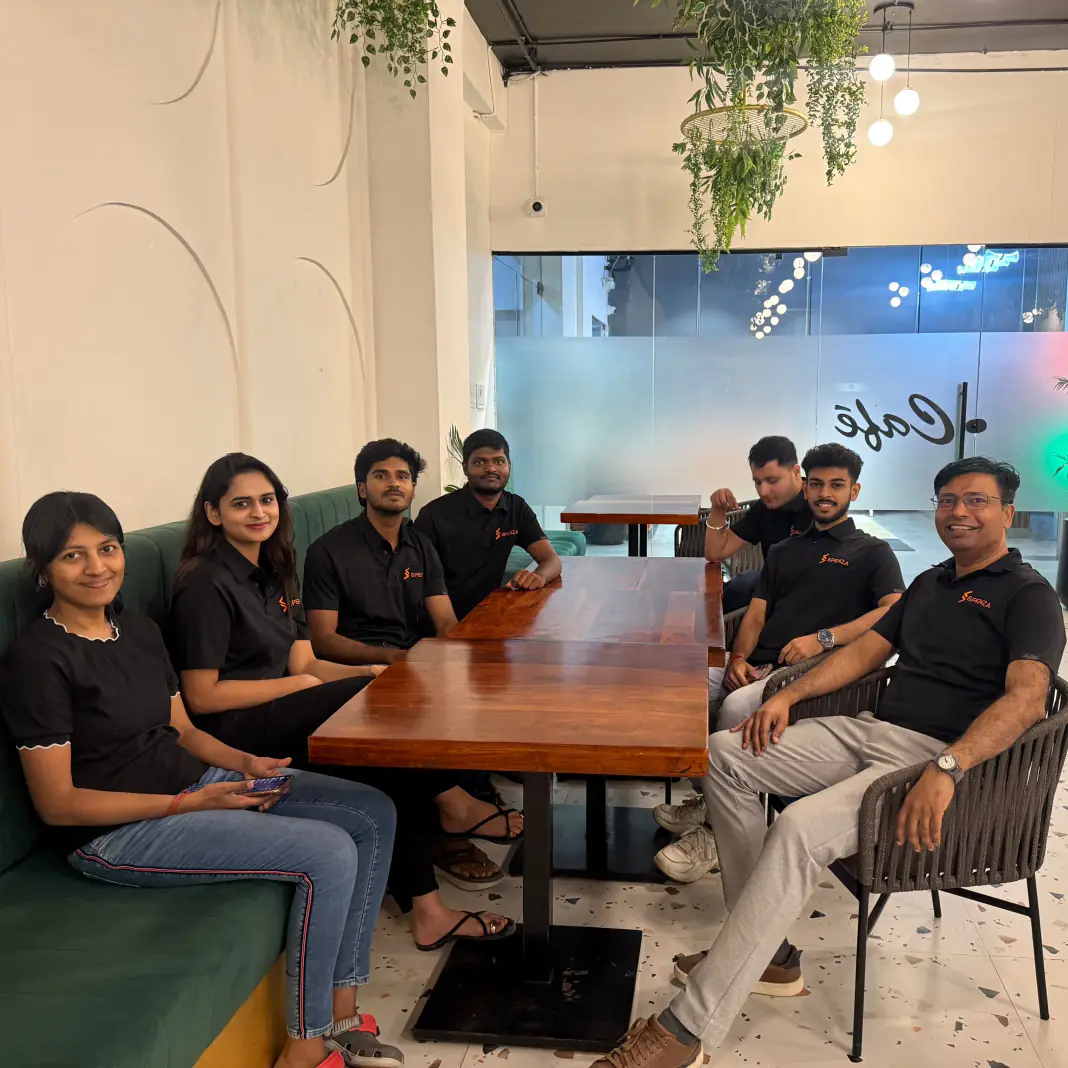
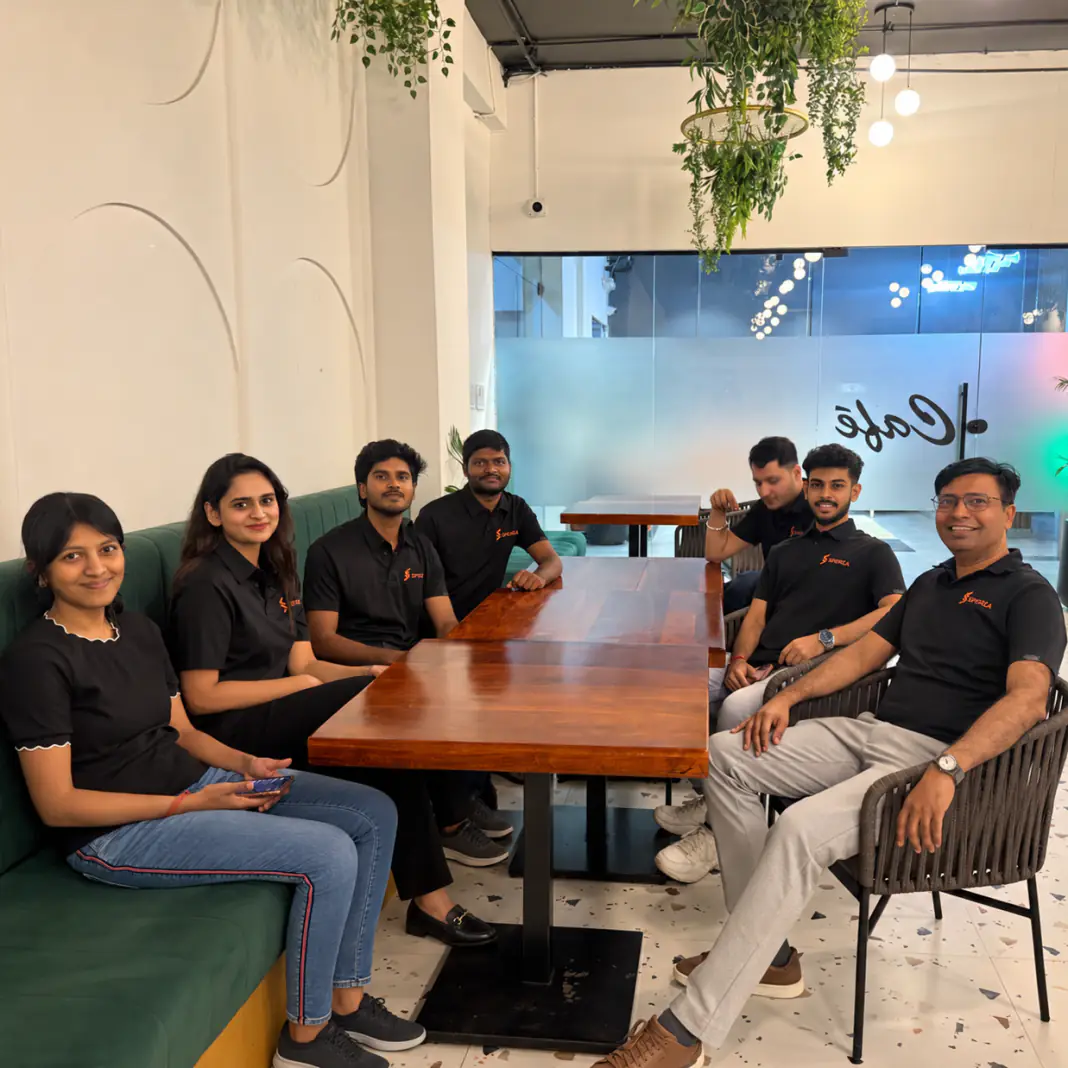
Careers hero: replace four team photos with the edited versions
Cafe, foosball, presentation and product-review photos, same square crops
as before, 1068px WebP. Referenced with ?v= because /images is cached for
30 days under a stable name.

diff --git a/src/partials/careers.html b/src/partials/careers.html
@@ -44,7 +44,7 @@
 				<div class="elementor-widget-container">
 							<div class="elementor-image-carousel-wrapper swiper" role="region" aria-roledescription="carousel" aria-label="Image Carousel" dir="ltr">
 			<div class="elementor-image-carousel swiper-wrapper" aria-live="off">
-								<div class="swiper-slide" role="group" aria-roledescription="slide" aria-label="1 of 6"><figure class="swiper-slide-inner"><img decoding="async" class="swiper-slide-image" src="/images/careers/team-5.webp" alt="The Spenza team playing foosball" width="1068" height="1068"></figure></div><div class="swiper-slide" role="group" aria-roledescription="slide" aria-label="2 of 6"><figure class="swiper-slide-inner"><img decoding="async" class="swiper-slide-image" src="/images/careers/team-1.webp?v=4a832901" alt="The Spenza team giving a thumbs up in the meeting room" width="1068" height="1068"></figure></div><div class="swiper-slide" role="group" aria-roledescription="slide" aria-label="3 of 6"><figure class="swiper-slide-inner"><img decoding="async" class="swiper-slide-image" src="/images/careers/team-4.webp" alt="The Spenza team at a table in the cafe" width="1068" height="1068"></figure></div><div class="swiper-slide" role="group" aria-roledescription="slide" aria-label="4 of 6"><figure class="swiper-slide-inner"><img decoding="async" class="swiper-slide-image" src="/images/careers/team-3.webp" alt="The Spenza team watching a presentation in the meeting room" width="1068" height="1068"></figure></div><div class="swiper-slide" role="group" aria-roledescription="slide" aria-label="5 of 6"><figure class="swiper-slide-inner"><img decoding="async" class="swiper-slide-image" src="/images/careers/team-6.webp" alt="The Spenza team seated together in a row" width="1068" height="1068"></figure></div><div class="swiper-slide" role="group" aria-roledescription="slide" aria-label="6 of 6"><figure class="swiper-slide-inner"><img decoding="async" class="swiper-slide-image" src="/images/careers/team-2.webp" alt="The Spenza team in a product review around the meeting table" width="1068" height="1068"></figure></div>			</div>
+								<div class="swiper-slide" role="group" aria-roledescription="slide" aria-label="1 of 6"><figure class="swiper-slide-inner"><img decoding="async" class="swiper-slide-image" src="/images/careers/team-5.webp?v=c4e602d2" alt="The Spenza team playing foosball" width="1068" height="1068"></figure></div><div class="swiper-slide" role="group" aria-roledescription="slide" aria-label="2 of 6"><figure class="swiper-slide-inner"><img decoding="async" class="swiper-slide-image" src="/images/careers/team-1.webp?v=4a832901" alt="The Spenza team giving a thumbs up in the meeting room" width="1068" height="1068"></figure></div><div class="swiper-slide" role="group" aria-roledescription="slide" aria-label="3 of 6"><figure class="swiper-slide-inner"><img decoding="async" class="swiper-slide-image" src="/images/careers/team-4.webp?v=3cce59e1" alt="The Spenza team at a table in the cafe" width="1068" height="1068"></figure></div><div class="swiper-slide" role="group" aria-roledescription="slide" aria-label="4 of 6"><figure class="swiper-slide-inner"><img decoding="async" class="swiper-slide-image" src="/images/careers/team-3.webp?v=b3b51e59" alt="The Spenza team watching a presentation in the meeting room" width="1068" height="1068"></figure></div><div class="swiper-slide" role="group" aria-roledescription="slide" aria-label="5 of 6"><figure class="swiper-slide-inner"><img decoding="async" class="swiper-slide-image" src="/images/careers/team-6.webp" alt="The Spenza team seated together in a row" width="1068" height="1068"></figure></div><div class="swiper-slide" role="group" aria-roledescription="slide" aria-label="6 of 6"><figure class="swiper-slide-inner"><img decoding="async" class="swiper-slide-image" src="/images/careers/team-2.webp?v=da05e8a9" alt="The Spenza team in a product review around the meeting table" width="1068" height="1068"></figure></div>			</div>
 							
 									</div>
 						</div>
